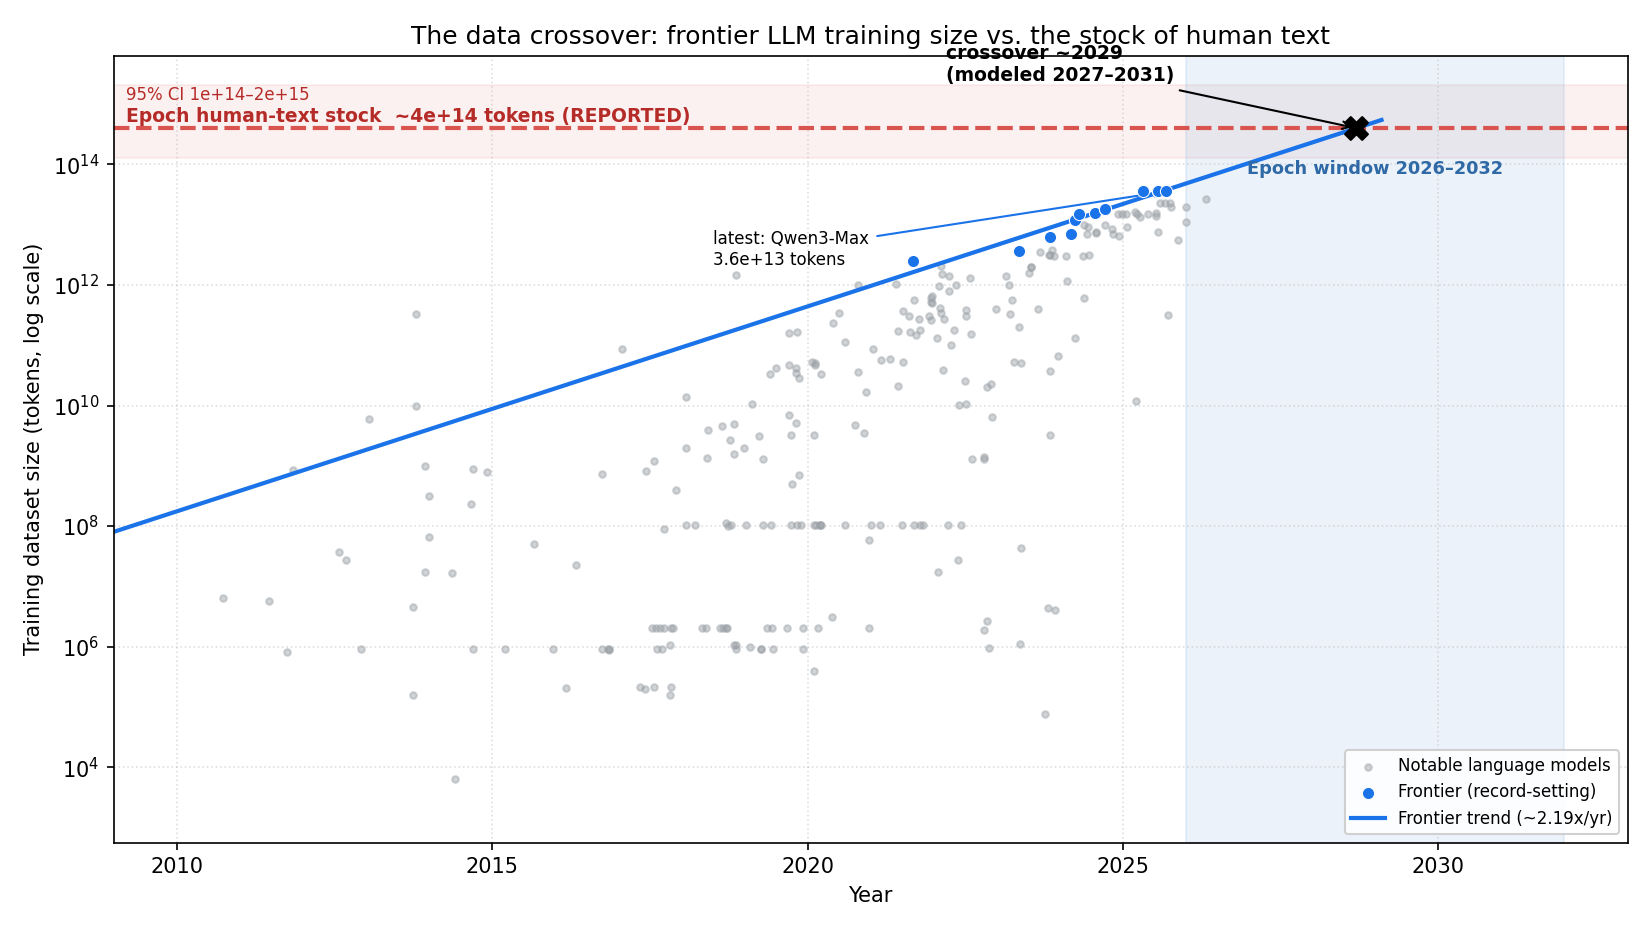
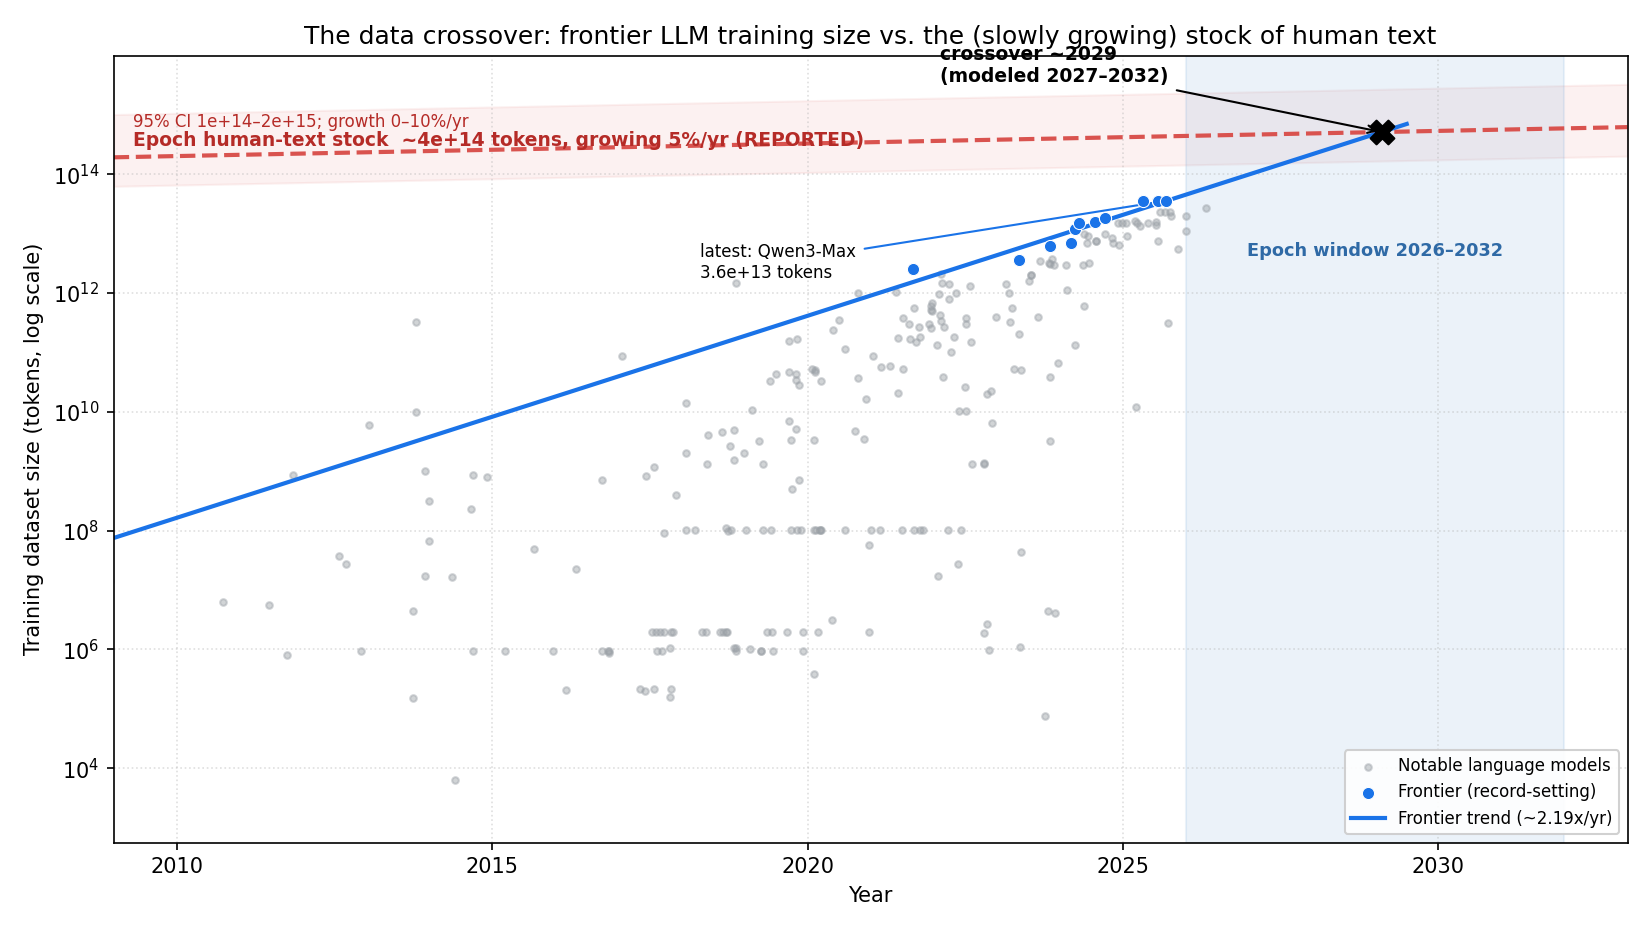
F-07 crossover: model the GROWING stock (Epoch 0-10%/yr) per reviewer point
The human-text stock isn't static — Epoch estimates it grows 0-10%/yr (sourced from
arXiv:2211.04325v2). Modeled the stock rising (central 5%/yr, band 0-10%) instead of flat:
- crossover.py: stock D(t)=D0*(1+g)^(t-2024); crossover central ~2029.1 (range
  2027.3-2031.8), still inside Epoch's 2026-2032 window. Growth shifts it only ~5 months
  (frontier ~120%/yr >> stock <=10%/yr) — the flow-vs-stock asymmetry that is the thesis.
- viz/crossover.py: human-text stock drawn as a gently rising band + line.
- SRC-008 + F-07 updated with the growth rate.

diff --git a/src/analyze/crossover.py b/src/analyze/crossover.py
@@ -1,11 +1,13 @@
-"""Q3 hero crossover — frontier LLM training-set size vs Epoch's human-text stock.
+"""Q3 hero crossover — frontier LLM training-set size vs Epoch's GROWING human-text stock.
 
 Combines our MEASURED frontier training-size trend (Epoch language models, SRC-001) with
-Epoch's REPORTED stock of human public text (SRC-008, quoted from arXiv:2211.04325v2 and
-Epoch's "Can AI scaling continue through 2030"). Fits the frontier (running-max) trend and
-projects when it reaches the stock -> a MODELED crossover, alongside Epoch's own REPORTED
-2026-2032 exhaustion window. Writes results/crossover.json. Read-only on raw.
+Epoch's REPORTED stock of human public text AND its growth rate (SRC-008, quoted from
+arXiv:2211.04325v2). The stock is NOT static: Epoch estimates it grows 0-10%/year, so we
+model it rising and solve where the frontier trend meets the rising stock -> a MODELED
+crossover, alongside Epoch's own REPORTED 2026-2032 window. Writes results/crossover.json.
 
+The point the chart makes: the stock creeps up a few %/yr while frontier training grows
+~120%/yr (2.2x), so they still collide. Read-only on raw.
 Run: .venv/Scripts/python.exe src/analyze/crossover.py
 """
 
@@ -27,9 +29,12 @@ RAW = ROOT / "data" / "raw" / "epoch" / "notable_ai_models.csv"
 OUT = ROOT / "results" / "crossover.json"
 RETRIEVED = "2026-06-05"
 
-# REPORTED Epoch stock figures (tokens). Sourced from primaries, not memory:
+# REPORTED Epoch stock figures (tokens) + growth, sourced from the paper (not memory):
 STOCK_EFFECTIVE = 4e14            # quality+repetition-adjusted effective stock of public text
 STOCK_CI = (1.3e14, 2.1e15)      # 95% CI on indexed-web stock (130T - 2100T)
+STOCK_GROWTH = 0.05              # central stock growth; Epoch's CI is 0-10%/yr -> midpoint
+STOCK_GROWTH_CI = (0.0, 0.10)    # Epoch's 0-10%/yr confidence interval for stock growth
+STOCK_ANCHOR_YEAR = 2024         # the ~4e14 estimate is ~current at the paper's analysis
 EPOCH_WINDOW = (2026, 2032)      # reported exhaustion window
 STOCK_SOURCES = [
     {"quote": "models will be trained on dataset sizes approaching the total effective stock "
@@ -38,6 +43,9 @@ STOCK_SOURCES = [
     {"quote": "indexed web ~510T tokens after dedup [95% CI 130T-2100T]; models reach the stock "
               "between 2026 and 2032",
      "url": "https://arxiv.org/abs/2211.04325"},
+    {"quote": "we settle on a confidence interval between 0% and 10% a year [for stock growth]; "
+              "the number of internet users is growing by approximately 2-4% per year",
+     "url": "https://arxiv.org/html/2211.04325v2"},
 ]
 
 
@@ -60,8 +68,10 @@ def main() -> int:
     fr_modern = fr[fr["year"] >= 2018]
     slope, intercept = np.polyfit(fr_modern["year"].to_numpy(float), np.log10(fr_modern["tokens"].to_numpy(float)), 1)
 
-    def cross_year(stock: float) -> float:
-        return (np.log10(stock) - intercept) / slope
+    def cross(d0: float, g: float) -> float:
+        # solve  slope*t + intercept == log10(d0) + (t - anchor)*log10(1+g)
+        a = np.log10(1.0 + g)
+        return (np.log10(d0) - intercept - STOCK_ANCHOR_YEAR * a) / (slope - a)
 
     latest = df.loc[df["tokens"].idxmax()]
     out = {
@@ -78,14 +88,17 @@ def main() -> int:
         },
         "stock_reported": {
             "effective_tokens": STOCK_EFFECTIVE, "ci_tokens": list(STOCK_CI),
-            "epoch_exhaustion_window": list(EPOCH_WINDOW), "type": "REPORTED (Epoch)",
+            "growth_rate_per_year_central": STOCK_GROWTH, "growth_rate_ci": list(STOCK_GROWTH_CI),
+            "anchor_year": STOCK_ANCHOR_YEAR, "epoch_exhaustion_window": list(EPOCH_WINDOW),
+            "type": "REPORTED (Epoch); central growth = midpoint of their 0-10%/yr CI",
             "sources": STOCK_SOURCES, "retrieved": RETRIEVED,
         },
         "crossover_modeled": {
-            "type": "MODELED — our frontier trend extrapolated to the stock level",
-            "year_at_effective_stock": round(float(cross_year(STOCK_EFFECTIVE)), 1),
-            "year_at_ci_low": round(float(cross_year(STOCK_CI[0])), 1),
-            "year_at_ci_high": round(float(cross_year(STOCK_CI[1])), 1),
+            "type": "MODELED — frontier trend vs the GROWING stock (Epoch 0-10%/yr)",
+            "year_central": round(float(cross(STOCK_EFFECTIVE, STOCK_GROWTH)), 1),
+            "year_earliest": round(float(cross(STOCK_CI[0], STOCK_GROWTH_CI[0])), 1),
+            "year_latest": round(float(cross(STOCK_CI[1], STOCK_GROWTH_CI[1])), 1),
+            "note": "stock growth shifts the crossover only ~months (frontier ~120%/yr >> stock <=10%/yr)",
         },
         "frontier_points": [
             {"model": str(r.Model), "year": round(float(r.year), 2), "tokens": float(r.tokens)}
@@ -101,14 +114,15 @@ def main() -> int:
 
     f = out["frontier_fit_2018plus"]; c = out["crossover_modeled"]; l = out["latest_frontier"]
     print(f"frontier (2018+): n={f['n_frontier_models']}, {f['x_per_year']}x/yr ({f['doublings_per_year']} doublings/yr)")
-    print(f"latest frontier: {l['model']} = {l['tokens']:.2e} tokens ({l['orders_of_magnitude_below_effective_stock']} OM below 4e14 stock)")
-    print(f"MODELED crossover at 4e14 effective stock: ~{c['year_at_effective_stock']}  (CI {c['year_at_ci_low']}..{c['year_at_ci_high']})")
+    print(f"latest frontier: {l['model']} = {l['tokens']:.2e} tokens ({l['orders_of_magnitude_below_effective_stock']} OM below 4e14)")
+    print(f"stock growth (REPORTED): central {STOCK_GROWTH:.0%}/yr (CI {STOCK_GROWTH_CI[0]:.0%}-{STOCK_GROWTH_CI[1]:.0%})")
+    print(f"MODELED crossover (growing stock): central ~{c['year_central']}  (range {c['year_earliest']}..{c['year_latest']})")
     print(f"Epoch REPORTED window: {EPOCH_WINDOW[0]}-{EPOCH_WINDOW[1]}")
 
     if not A.provenance_has("SRC-008"):
         q = "\n".join(f"  - \"{s['quote']}\" [{s['url']}]" for s in STOCK_SOURCES)
-        block = f"""### SRC-008  Epoch human-text data stock (REPORTED)
-- name:           Epoch AI estimate of the stock of human-generated public text
+        block = f"""### SRC-008  Epoch human-text data stock + growth (REPORTED)
+- name:           Epoch AI estimate of the stock of human-generated public text (+ growth)
 - url:            https://arxiv.org/abs/2211.04325 ; https://arxiv.org/html/2211.04325v2
 - access_method:  download (paper text) — REPORTED quotes
 - retrieved_at:   {RETRIEVED}
@@ -116,8 +130,9 @@ def main() -> int:
 {q}
 - tier:           A (originating research group's own paper)
 - caveats:        ~4e14 effective (quality/repetition-adjusted) vs ~510T raw indexed web
-                  [95% 130T-2100T]; exhaustion window 2026-2032 is Epoch's own projection
-                  (their MODELED). Earlier '~300T' lead was a search summary, NOT used."""
+                  [95% 130T-2100T]; stock GROWS 0-10%/yr (the stock is not static);
+                  2026-2032 window is Epoch's own projection. Earlier '~300T' lead was a
+                  search summary, NOT used."""
         A.provenance_append(block)
         print(">> PROVENANCE: appended SRC-008")
     print(f">> wrote {OUT.relative_to(ROOT).as_posix()}")

diff --git a/src/viz/crossover.py b/src/viz/crossover.py
@@ -1,6 +1,6 @@
-"""Hero figure — the data crossover. Reads results/crossover.json ONLY; writes
-figures/crossover.png. All numbers/labels come from the results file (no hand-typed
-values). Run: .venv/Scripts/python.exe src/viz/crossover.py
+"""Hero figure — the data crossover (with a GROWING stock). Reads results/crossover.json
+ONLY; writes figures/crossover.png. All numbers/labels come from the results file.
+Run: .venv/Scripts/python.exe src/viz/crossover.py
 """
 
 from __future__ import annotations
@@ -20,13 +20,9 @@ OUT = ROOT / "figures" / "crossover.png"
 
 def main() -> int:
     d = json.loads(RES.read_text(encoding="utf-8"))
-    fit = d["frontier_fit_2018plus"]
-    stock = d["stock_reported"]
-    cross = d["crossover_modeled"]
-    latest = d["latest_frontier"]
+    fit, stock, cross, latest = d["frontier_fit_2018plus"], d["stock_reported"], d["crossover_modeled"], d["latest_frontier"]
 
-    allpts = d["all_language_points"]
-    fr = d["frontier_points"]
+    allpts, fr = d["all_language_points"], d["frontier_points"]
     ax_years = [p["year"] for p in allpts]
     ax_tok = [p["tokens"] for p in allpts]
     fr_years = [p["year"] for p in fr]
@@ -34,51 +30,60 @@ def main() -> int:
 
     eff = stock["effective_tokens"]
     ci_lo, ci_hi = stock["ci_tokens"]
+    g = stock["growth_rate_per_year_central"]
+    t0 = stock["anchor_year"]
     win_lo, win_hi = stock["epoch_exhaustion_window"]
-    x_cross = cross["year_at_effective_stock"]
-
-    # frontier fit line params (reconstruct slope/intercept from two known points:
-    # the modeled crossover (year, eff) and latest frontier (year, tokens))
+    x_cross = cross["year_central"]
     slope = fit["om_per_year"]
-    intercept = np.log10(eff) - slope * x_cross
+
+    xmax = max(win_hi, x_cross) + 1
+    xline = np.linspace(2009, xmax, 200)
+
+    def stock_at(d0, x):
+        return d0 * (1 + g) ** (x - t0)
+
+    y_cross = stock_at(eff, x_cross)
+    intercept = np.log10(y_cross) - slope * x_cross  # frontier line through the crossover
 
     fig, ax = plt.subplots(figsize=(11, 6.2))
-    # human-text stock band (REPORTED)
-    ax.axhspan(ci_lo, ci_hi, color="#d9534f", alpha=0.08)
-    ax.axhline(eff, color="#d9534f", lw=2, ls="--")
-    ax.text(2009.2, eff * 1.25, f"Epoch human-text stock  ~{eff:.0e} tokens (REPORTED)",
+
+    # GROWING human-text stock band (REPORTED level + growth)
+    ax.fill_between(xline, stock_at(ci_lo, xline), stock_at(ci_hi, xline), color="#d9534f", alpha=0.08)
+    ax.plot(xline, stock_at(eff, xline), color="#d9534f", lw=2, ls="--")
+    ax.text(2009.3, stock_at(eff, 2009.3) * 1.5,
+            f"Epoch human-text stock  ~{eff:.0e} tokens, growing {g:.0%}/yr (REPORTED)",
             color="#b52b27", fontsize=9, fontweight="bold")
-    ax.text(2009.2, ci_hi * 0.55, f"95% CI {ci_lo:.0e}–{ci_hi:.0e}", color="#b52b27", fontsize=8)
+    ax.text(2009.3, stock_at(ci_hi, 2009.3) * 0.6, f"95% CI {ci_lo:.0e}–{ci_hi:.0e}; growth 0–10%/yr",
+            color="#b52b27", fontsize=8)
 
     # Epoch reported exhaustion window
     ax.axvspan(win_lo, win_hi, color="#5b9bd5", alpha=0.12)
-    ax.text((win_lo + win_hi) / 2, eff * 0.30, f"Epoch window {win_lo}–{win_hi}",
+    ax.text((win_lo + win_hi) / 2, eff * 0.018, f"Epoch window {win_lo}–{win_hi}",
             color="#2f6aa6", fontsize=8.5, ha="center", va="top", fontweight="bold")
 
-    # all language models (faint) + frontier (bold) + fit line
+    # models + frontier + fit
     ax.scatter(ax_years, ax_tok, s=10, color="#9aa0a6", alpha=0.45, label="Notable language models")
-    ax.scatter(fr_years, fr_tok, s=34, color="#1a73e8", edgecolor="white", lw=0.5,
-               zorder=5, label="Frontier (record-setting)")
+    ax.scatter(fr_years, fr_tok, s=34, color="#1a73e8", edgecolor="white", lw=0.5, zorder=5,
+               label="Frontier (record-setting)")
     xs = np.array([min(ax_years), x_cross + 0.4])
     ax.plot(xs, 10 ** (slope * xs + intercept), color="#1a73e8", lw=2,
             label=f"Frontier trend (~{fit['x_per_year']}x/yr)")
 
-    # crossover marker
-    ax.scatter([x_cross], [eff], s=120, marker="X", color="black", zorder=6)
-    ax.annotate(f"crossover ~{x_cross:.0f}\n(modeled {cross['year_at_ci_low']:.0f}–{cross['year_at_ci_high']:.0f})",
-                (x_cross, eff), xytext=(x_cross - 6.5, eff * 6), fontsize=9, fontweight="bold",
+    # crossover marker + annotation
+    ax.scatter([x_cross], [y_cross], s=130, marker="X", color="black", zorder=6)
+    ax.annotate(f"crossover ~{x_cross:.0f}\n(modeled {cross['year_earliest']:.0f}–{cross['year_latest']:.0f})",
+                (x_cross, y_cross), xytext=(x_cross - 7, y_cross * 7), fontsize=9, fontweight="bold",
                 arrowprops=dict(arrowstyle="->", color="black"))
     ax.annotate(f"latest: {latest['model']}\n{latest['tokens']:.1e} tokens",
-                (latest["date"][:4], latest["tokens"]) if False else (2025.7, latest["tokens"]),
-                xytext=(2018.5, latest["tokens"] * 0.06), fontsize=8,
+                (2025.7, latest["tokens"]), xytext=(2018.3, latest["tokens"] * 0.05), fontsize=8,
                 arrowprops=dict(arrowstyle="->", color="#1a73e8"))
 
     ax.set_yscale("log")
-    ax.set_xlim(2009, max(win_hi, x_cross) + 1)
-    ax.set_ylim(min(ax_tok) * 0.4, ci_hi * 3)
+    ax.set_xlim(2009, xmax)
+    ax.set_ylim(min(ax_tok) * 0.4, stock_at(ci_hi, xmax) * 3)
     ax.set_xlabel("Year")
     ax.set_ylabel("Training dataset size (tokens, log scale)")
-    ax.set_title("The data crossover: frontier LLM training size vs. the stock of human text")
+    ax.set_title("The data crossover: frontier LLM training size vs. the (slowly growing) stock of human text")
     ax.legend(loc="lower right", fontsize=8, framealpha=0.9)
     ax.grid(True, which="major", ls=":", alpha=0.4)
     fig.tight_layout()

diff --git a/findings/F-07.md b/findings/F-07.md
@@ -3,7 +3,7 @@
 CLAIM (one sentence, specific, falsifiable):
   Extrapolating the measured frontier trend of LLM training-set size (record-setting
   language models growing ~2.2x/year), frontier training reaches Epoch's reported
-  effective stock of human public text (~4e14 tokens) around 2029 (modeled 2027-2031) —
+  stock of human public text (~4e14 tokens, itself growing 0-10%/yr) around 2029 (modeled 2027-2032) —
   independently landing inside Epoch's own reported 2026-2032 "data wall" window — and the
   latest frontier model (Qwen3-Max, 36 trillion tokens) is already only ~1 order of
   magnitude below the total usable stock.
@@ -13,9 +13,9 @@ TYPE:        MEASURED (frontier trend) + REPORTED (Epoch stock + window) + MODEL
 NUMBERS:     Frontier trend (record-setting language models, 2018+): 2.19x/yr (1.13
              doublings/yr; n=13 frontier models). Latest frontier: Qwen3-Max = 3.6e13
              tokens (1.05 orders of magnitude below the 4e14 stock). Stock (REPORTED,
-             Epoch): ~4e14 effective tokens; 95% CI 1.3e14-2.1e15. MODELED crossover at
-             the effective stock: ~2028.7 (CI band 2027.3-2030.9). Epoch's REPORTED
-             exhaustion window: 2026-2032.
+             Epoch): ~4e14 effective tokens; 95% CI 1.3e14-2.1e15; and the stock GROWS
+             0-10%/yr (it is NOT static). MODELED crossover vs the growing stock: central
+             ~2029.1 (range 2027.3-2031.8). Epoch's REPORTED exhaustion window: 2026-2032.
 SOURCES:     SRC-001 Epoch model dataset (Tier A) for the frontier trend; SRC-008 Epoch
              stock estimate (Tier A, REPORTED — arXiv:2211.04325v2). Triangulated: our
              independent crossover lands inside Epoch's published window.
@@ -40,8 +40,10 @@ ALTERNATIVES / confounders:
                pushes it LATER (the deferral overlay, Q5 — still to model).
 ROBUSTNESS:  Independent crossover (~2029) falls inside Epoch's reported 2026-2032 window;
              latest frontier (36T) is ~1 OM below stock (sanity); deterministic re-run.
-             Planned: sensitivity to fit window + frontier definition; the synthetic-data
-             deferral overlay (Q5).
+             Modeling the stock's GROWTH (Epoch 0-10%/yr) moves the crossover only ~5
+             months (frontier ~120%/yr >> stock growth) -> confirms the flow-vs-stock
+             asymmetry that is the film's thesis. Planned: sensitivity to fit window +
+             frontier definition; the synthetic-data deferral overlay (Q5).
 VISUAL:      figures/crossover.png — frontier trend + projection vs the shaded stock band
              and the 2026-2032 window, crossover marked. Fed by results/crossover.json.
 CHAPTER:     5 (the strange wall) -> 7 (does the streak break?).

diff --git a/data/PROVENANCE.md b/data/PROVENANCE.md
@@ -131,7 +131,9 @@ say so explicitly — never leave a blank that looks complete.
 - raw_path:       N/A (REPORTED quotes)
   - "models will be trained on dataset sizes approaching the total effective stock of text in the indexed web: around 4e14 tokens" [https://arxiv.org/html/2211.04325v2]
   - "indexed web ~510T tokens after dedup [95% CI 130T-2100T]; models reach the stock between 2026 and 2032" [https://arxiv.org/abs/2211.04325]
+  - "we settle on a confidence interval between 0% and 10% a year [for stock growth]; the number of internet users is growing by approximately 2-4% per year" [https://arxiv.org/html/2211.04325v2]
 - tier:           A (originating research group's own paper)
 - caveats:        ~4e14 effective (quality/repetition-adjusted) vs ~510T raw indexed web
-                  [95% 130T-2100T]; exhaustion window 2026-2032 is Epoch's own projection
-                  (their MODELED). Earlier '~300T' lead was a search summary, NOT used.
+                  [95% 130T-2100T]; the stock GROWS 0-10%/yr (it is NOT static); exhaustion
+                  window 2026-2032 is Epoch's own projection. Earlier '~300T' lead was a
+                  search summary, NOT used.
